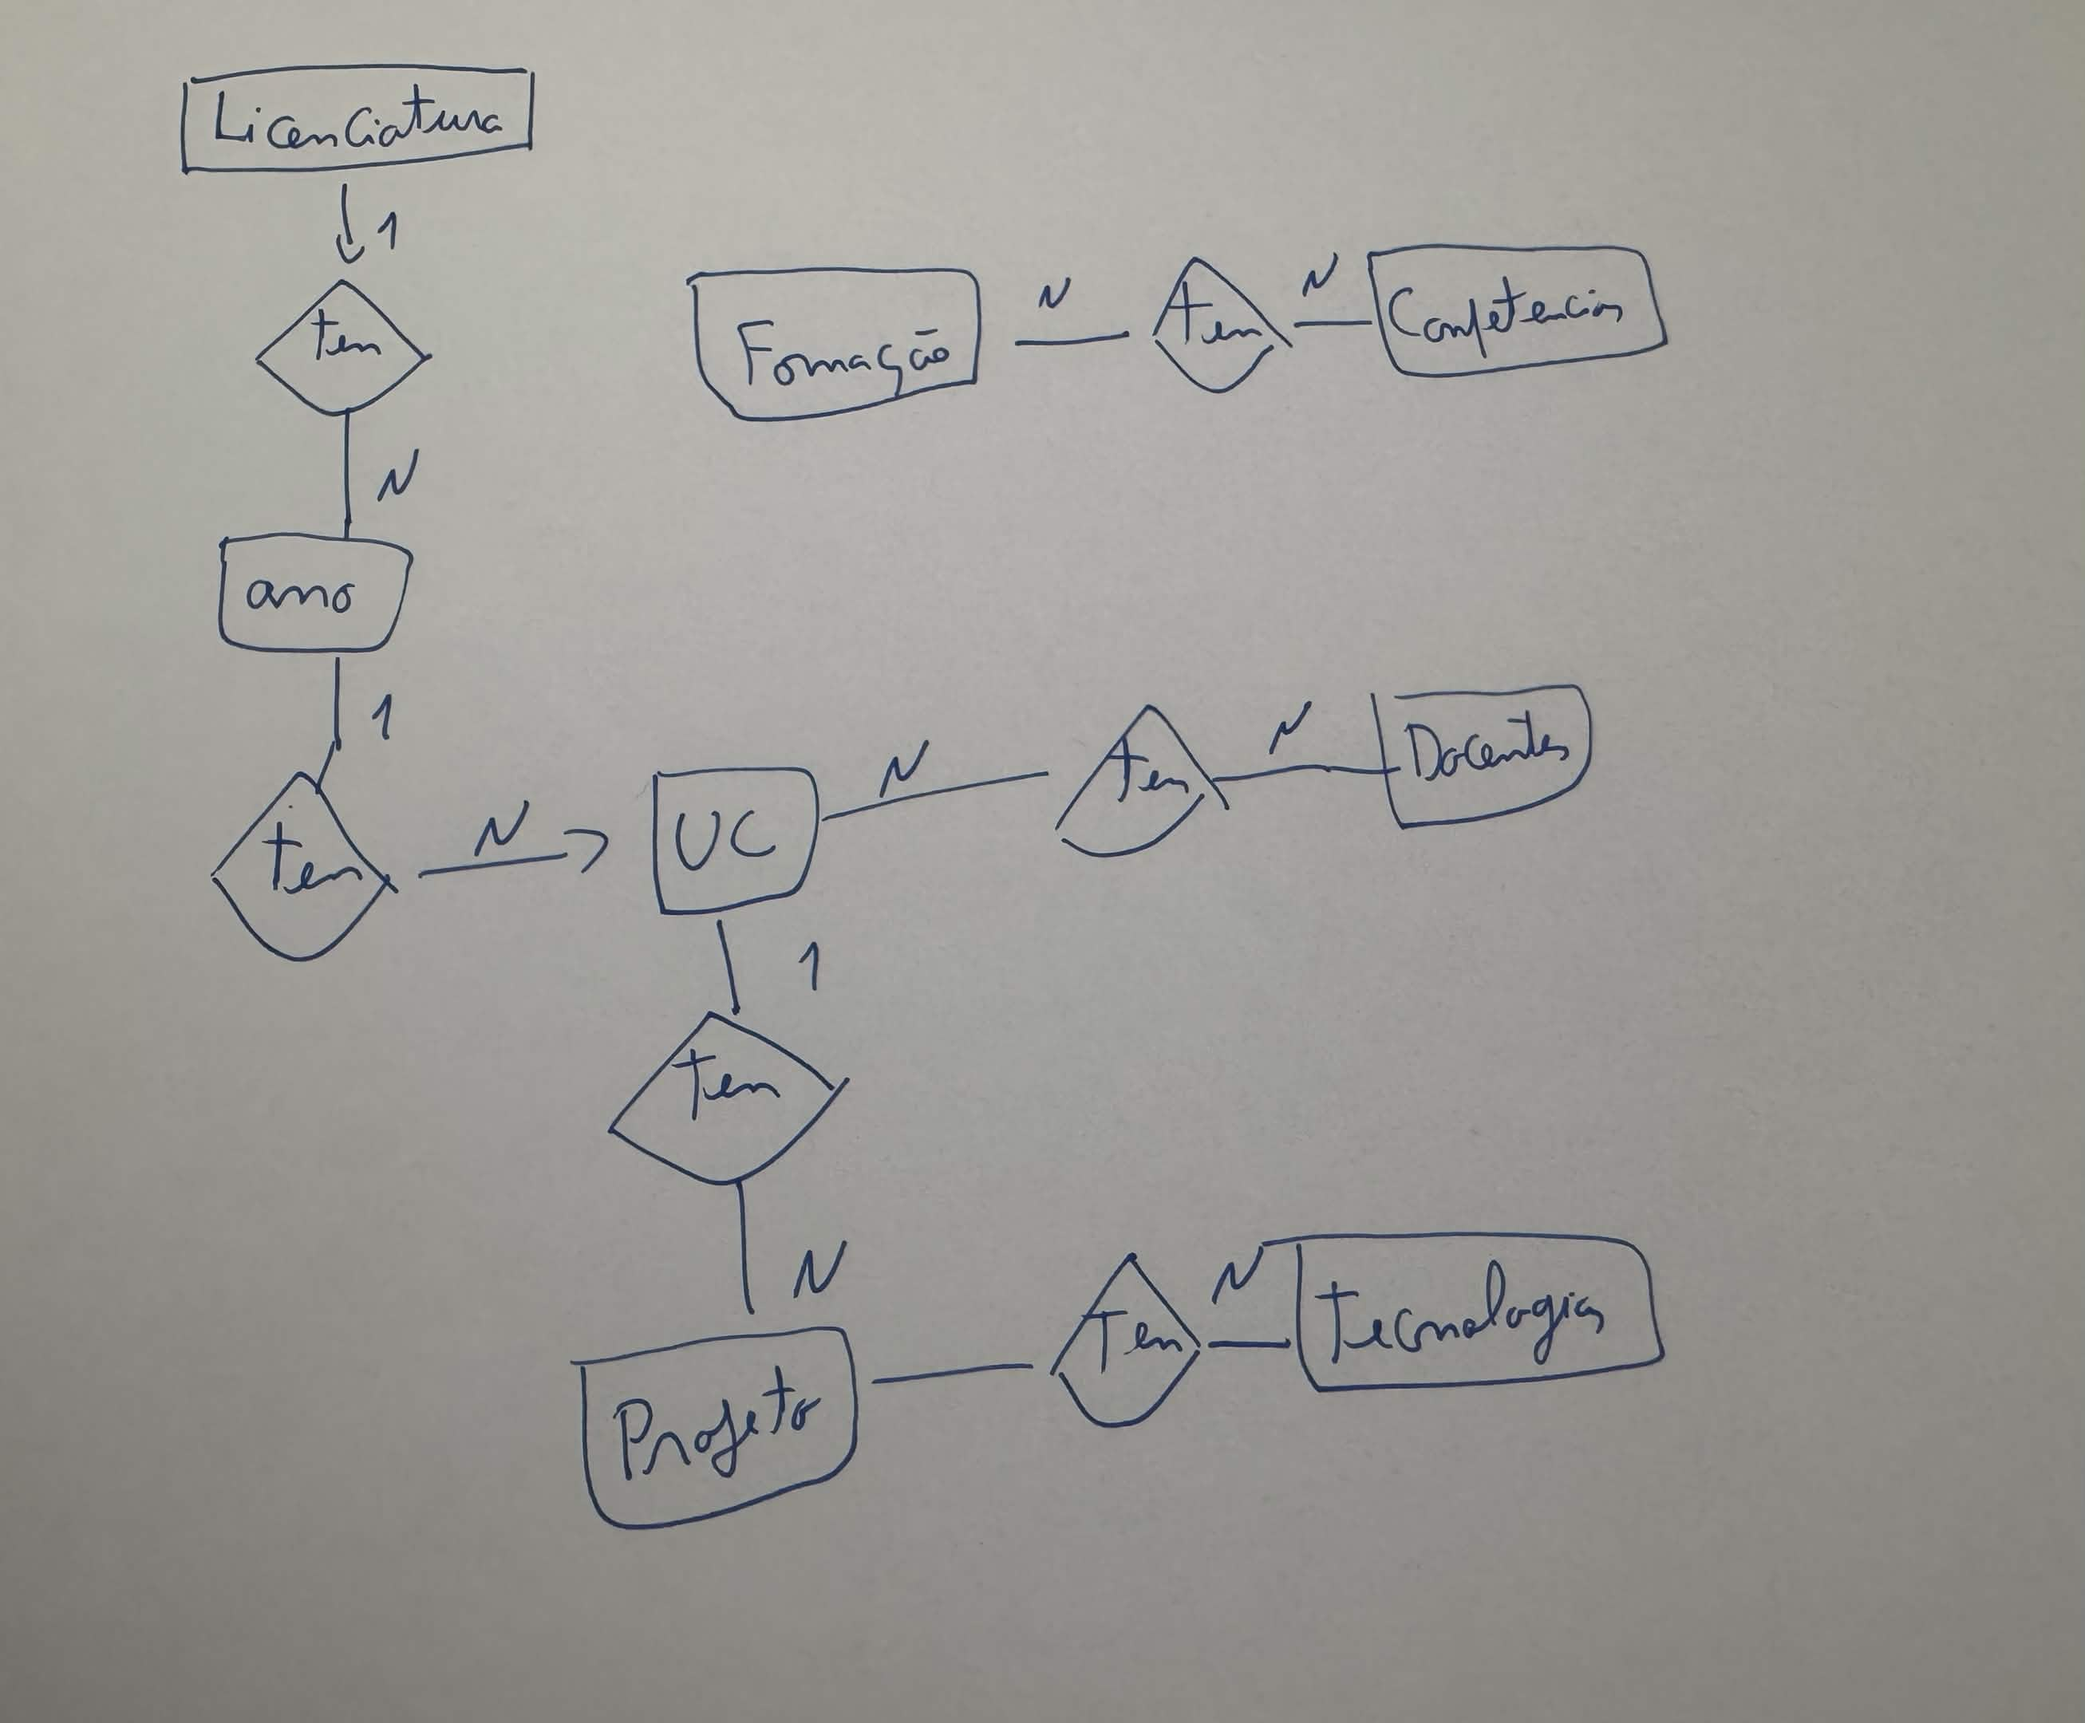
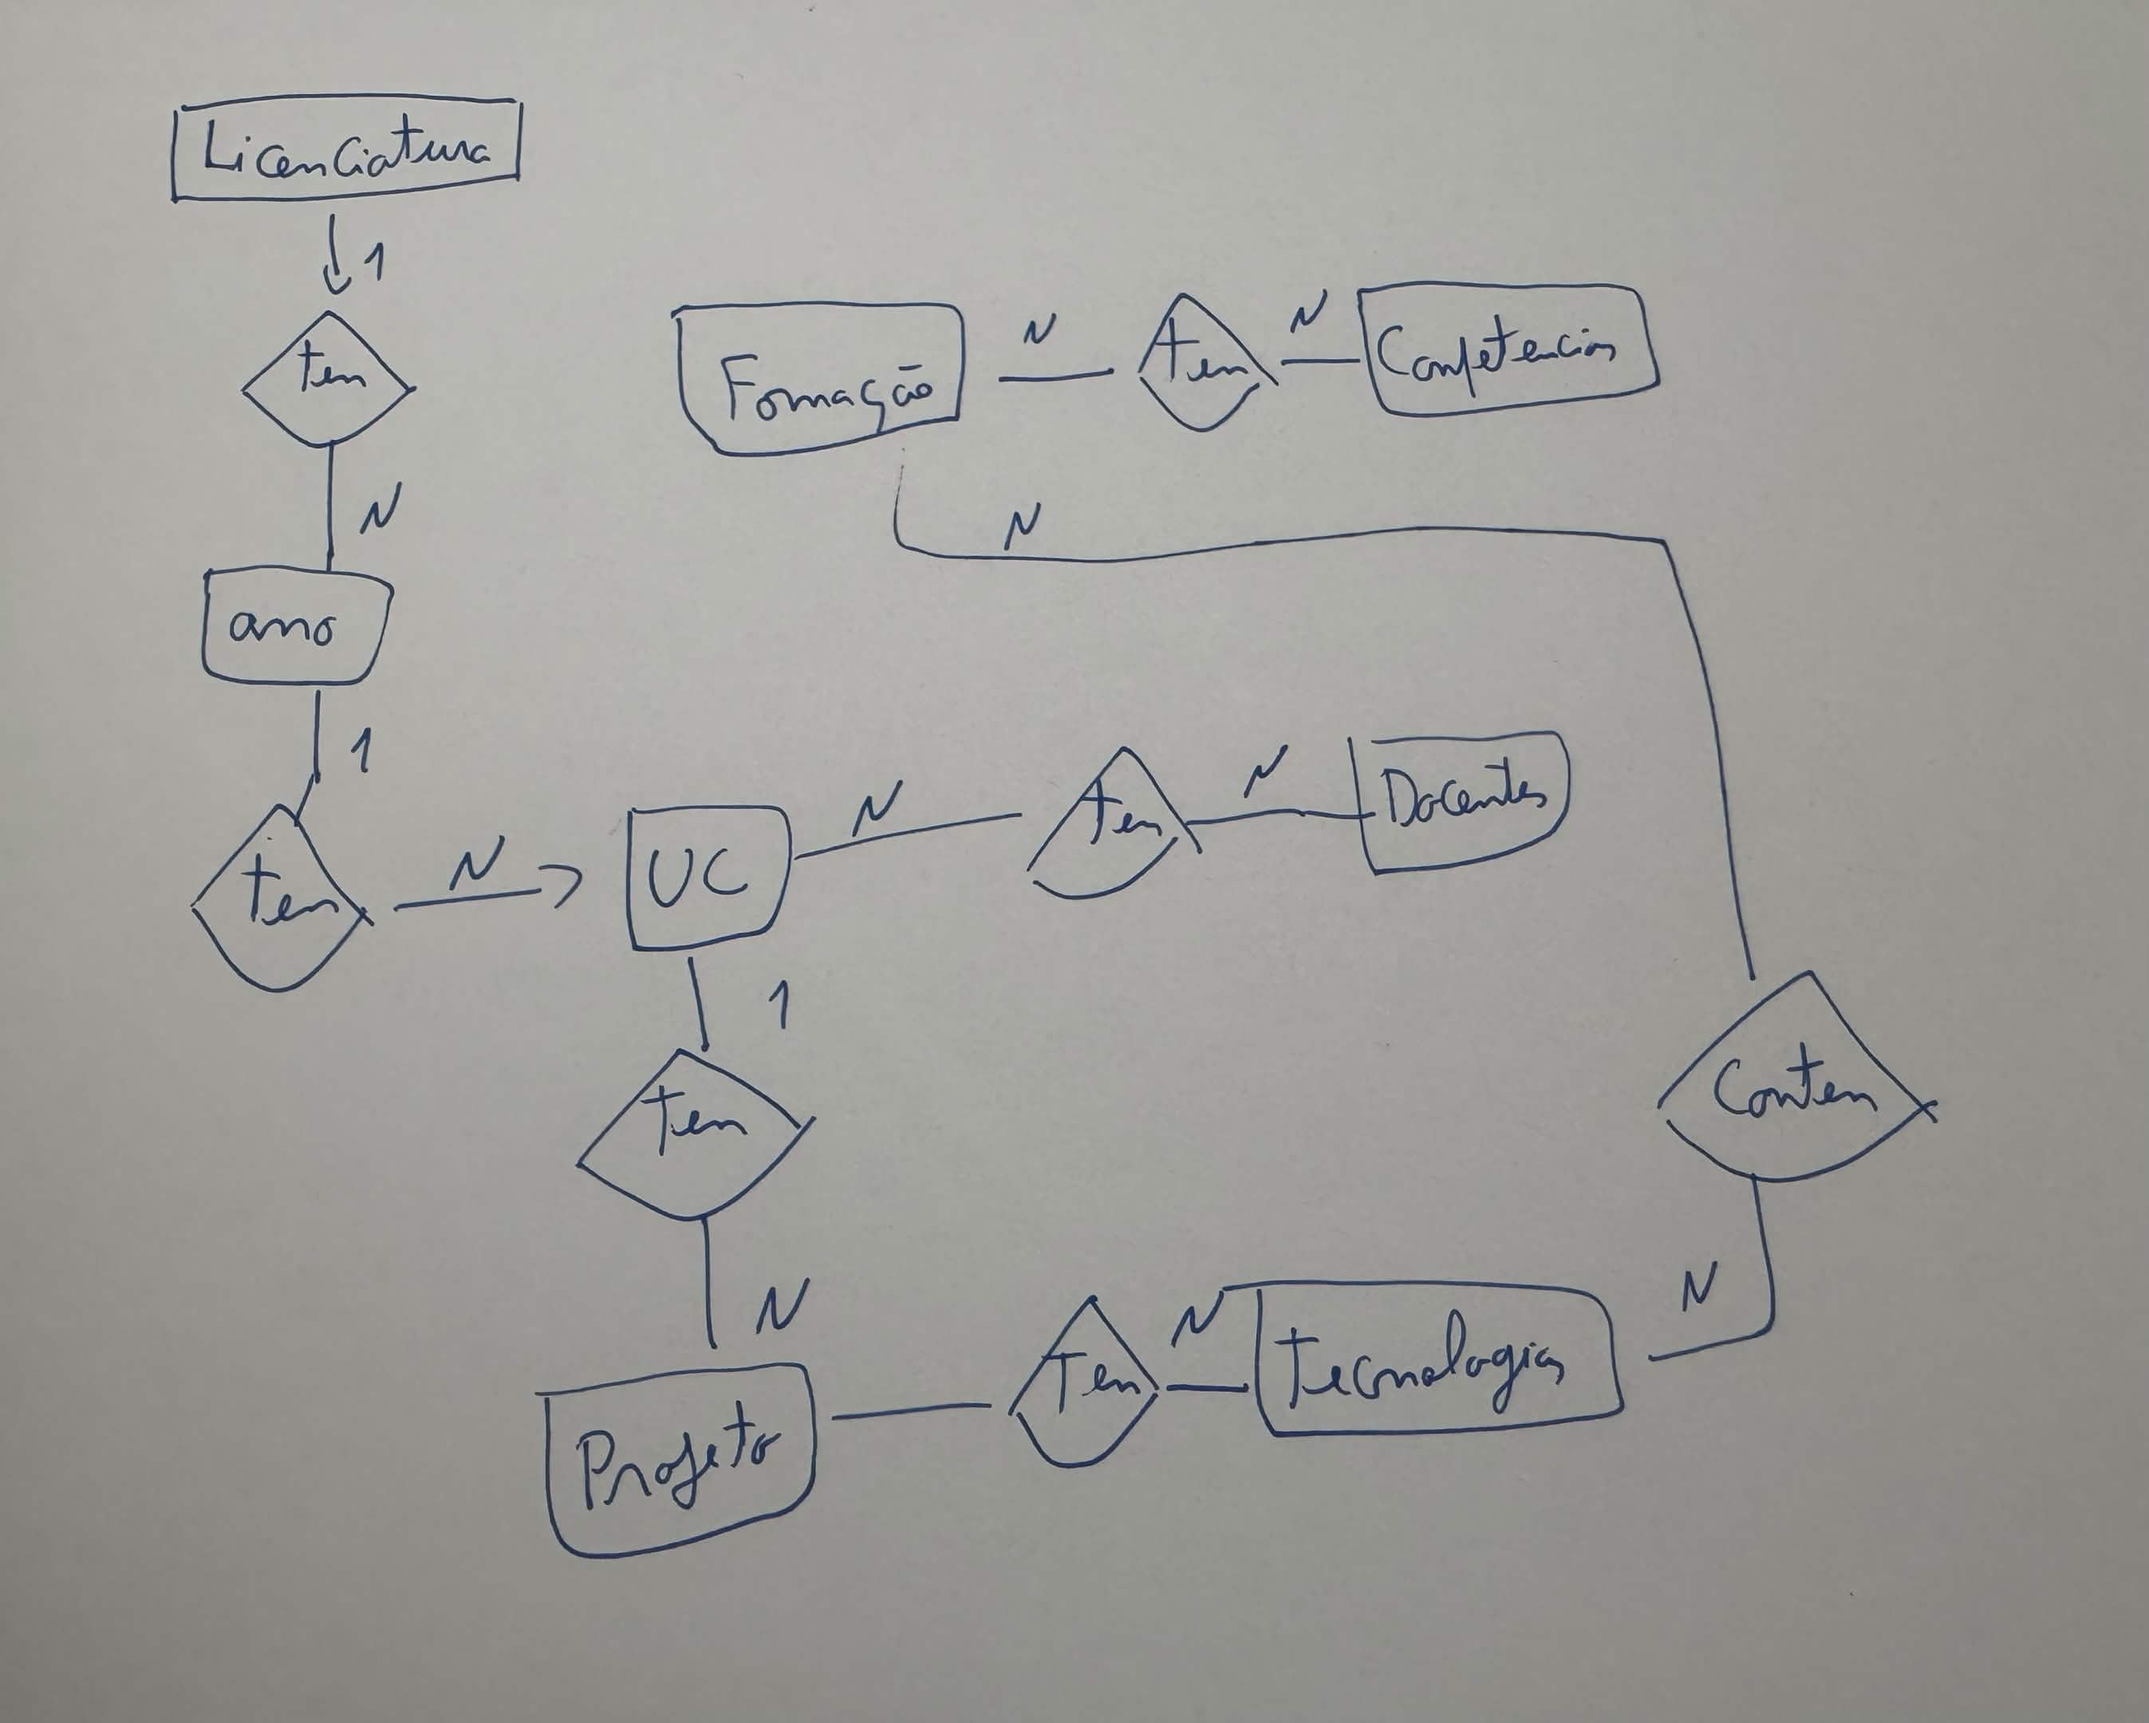
Atualizei a foto do diagrama

diff --git a/portfolio/migrations/0016_formacao_tecnologia.py b/portfolio/migrations/0016_formacao_tecnologia.py
@@ -1,0 +1,25 @@
+# Generated by Django 6.0.4 on 2026-04-11 15:36
+
+import django.db.models.deletion
+from django.db import migrations, models
+
+
+class Migration(migrations.Migration):
+
+    dependencies = [
+        ("portfolio", "0015_unidadecurricular_ects"),
+    ]
+
+    operations = [
+        migrations.AddField(
+            model_name="formacao",
+            name="tecnologia",
+            field=models.ForeignKey(
+                default=1,
+                on_delete=django.db.models.deletion.CASCADE,
+                related_name="formacoes",
+                to="portfolio.tecnologia",
+            ),
+            preserve_default=False,
+        ),
+    ]

diff --git a/portfolio/models.py b/portfolio/models.py
@@ -83,6 +83,7 @@ class Formacao(models.Model):
     descricao = models.TextField()
     certificado_url = models.URLField()
     competencias = models.ManyToManyField(Competencia, related_name='formacoes')
+    tecnologia = models.ForeignKey(Tecnologia,related_name="formacoes",on_delete=models.CASCADE)
 
     def __str__(self):
         return self.nome
